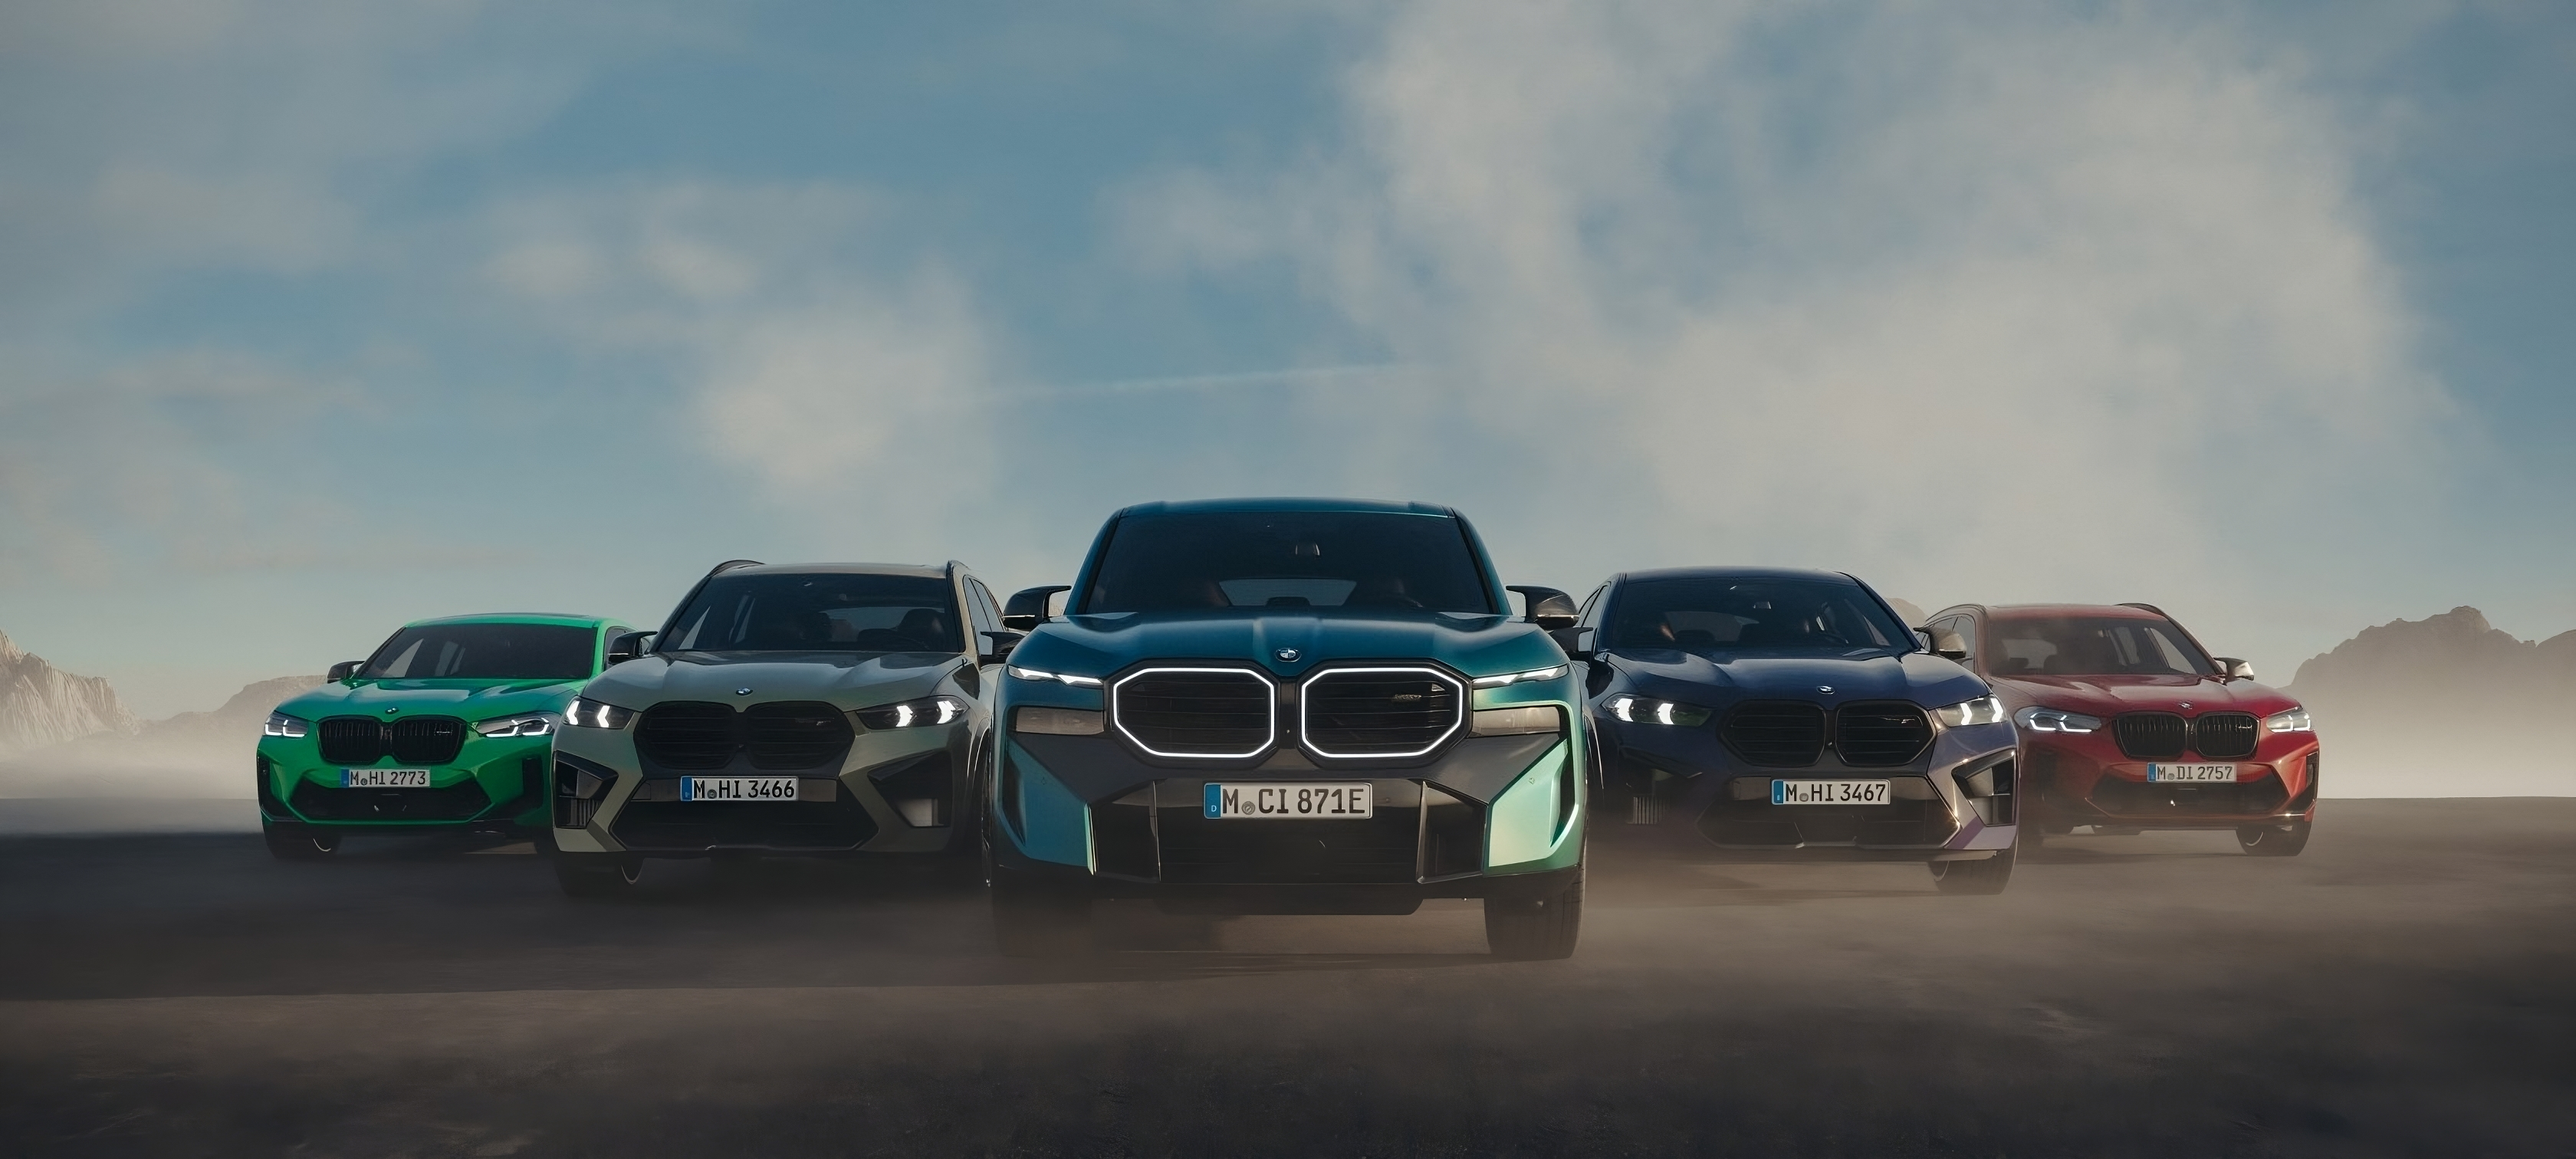
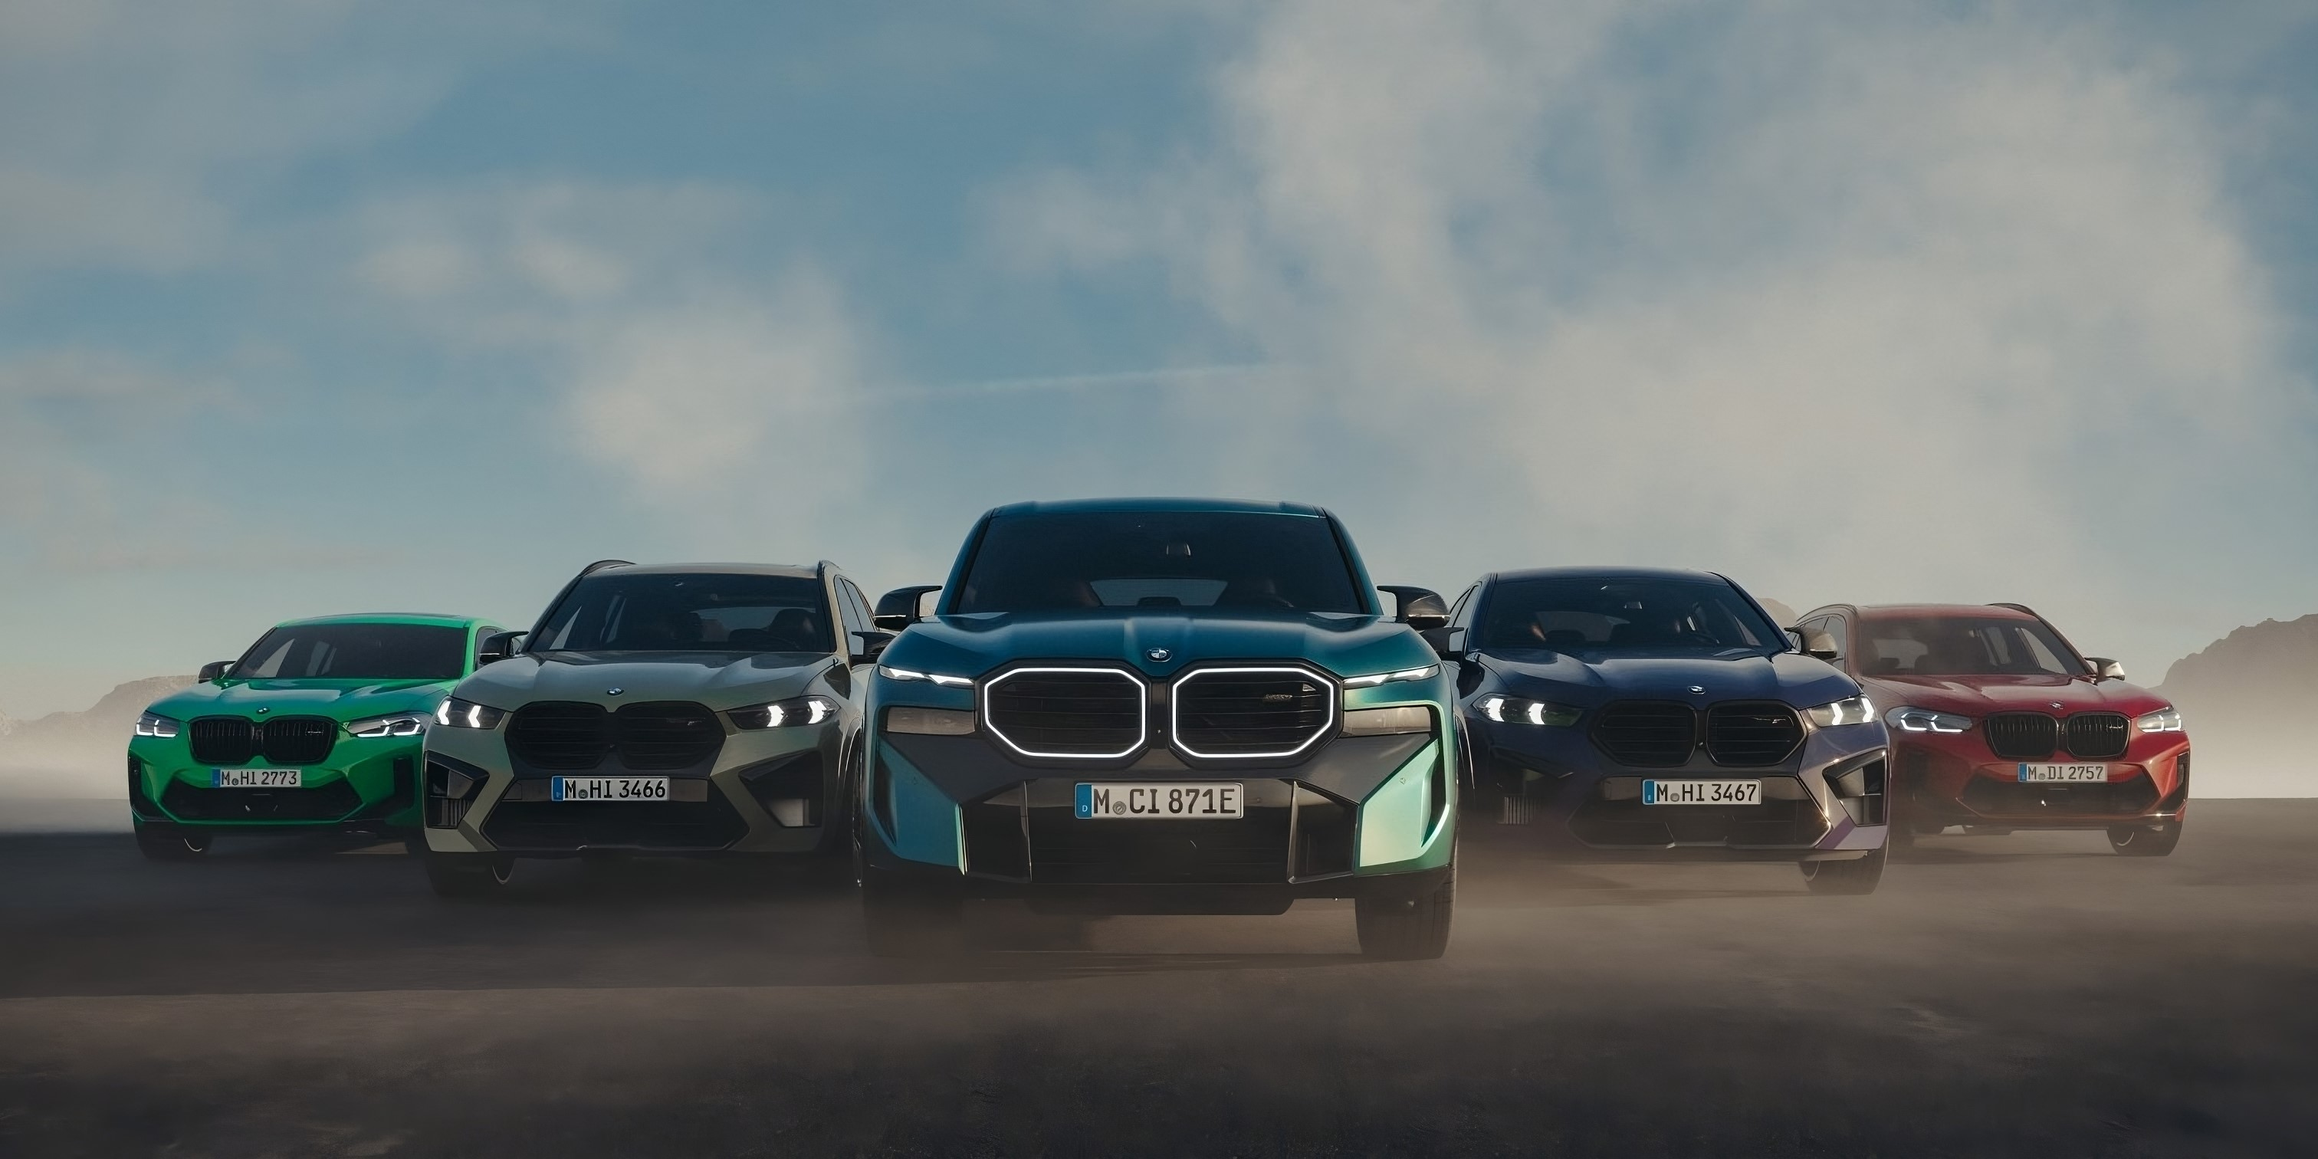
added two img

diff --git a/index.html b/index.html
@@ -1,137 +1,113 @@
 <!DOCTYPE html>
 <html lang="en">
-  <head>
-    <meta charset="UTF-8" />
-    <link rel="icon" href="images/bmw.png" type="image/x-icon" />
-    <meta name="viewport" content="width=device-width, initial-scale=1.0" />
-    <link rel="stylesheet" href="./style.css" />
-    <link rel="preconnect" href="https://fonts.googleapis.com" />
-    <link rel="preconnect" href="https://fonts.gstatic.com" crossorigin />
-    <link
-      href="https://fonts.googleapis.com/css2?family=Inter:wght@200&family=Prompt:wght@200&display=swap"
-      rel="stylesheet"
-    />
-    <link rel="preconnect" href="https://fonts.googleapis.com" />
-    <link rel="preconnect" href="https://fonts.gstatic.com" crossorigin />
-    <link
-      href="https://fonts.googleapis.com/css2?family=Inter:wght@200&family=Prompt:wght@200&family=Rubik:wght@500&display=swap"
-      rel="stylesheet"
-    />
-    <link
-      href="https://cdn.jsdelivr.net/npm/bootstrap@5.3.2/dist/css/bootstrap.min.css"
-      rel="stylesheet"
-      integrity="sha384-T3c6CoIi6uLrA9TneNEoa7RxnatzjcDSCmG1MXxSR1GAsXEV/Dwwykc2MPK8M2HN"
-      crossorigin="anonymous"
-    />
-    <title>BMW M series</title>
-  </head>
 
-  <body>
-    <!--Navbar-->
-    <nav class="navbar navbar-expand-sm navbar-dark fixed-top">
-      <div class="container">
-        <a href="#Models" class="navbar-brand"> </a>
-        <button
-          class="navbar-toggler"
-          data-bs-toggler="collapse"
-          data-bs-target="#menu"
-          aria-expanded="false"
-          aria-label="Toggle navigation"
-        >
-          <span class="navbar-toggler-icon"></span>
-        </button>
-        <div class="collapse navbar-collapse" id="menu">
-          <ul class="navbar-nav mx-auto">
-            <li class="nav-item">
-              <a href="#Models" class="nav-link text-white">Models</a>
-            </li>
-            <li class="nav-item">
-              <a href="#Magazines" class="nav-link text-white">Magazines</a>
-            </li>
-            <li class="nav-item">
-              <a href="#Motorsport" class="nav-link text-white">Motorsport</a>
-            </li>
-          </ul>
-          <a href="">
-            <img
-              src="images/bmw.png"
-              alt=""
-              width="60"
-              height="60"
-              style="margin: 1em"
-            />
-          </a>
-          <a href="">
-            <img src="images/bmw m.png" alt="" width="90" height="40" />
+<head>
+  <meta charset="UTF-8" />
+  <link rel="icon" href="images/bmw.png" type="image/x-icon" />
+  <meta name="viewport" content="width=device-width, initial-scale=1.0" />
+  <link rel="stylesheet" href="./style.css" />
+  <link rel="preconnect" href="https://fonts.googleapis.com" />
+  <link rel="preconnect" href="https://fonts.gstatic.com" crossorigin />
+  <link href="https://fonts.googleapis.com/css2?family=Inter:wght@200&family=Prompt:wght@200&display=swap"
+    rel="stylesheet" />
+  <link rel="preconnect" href="https://fonts.googleapis.com" />
+  <link rel="preconnect" href="https://fonts.gstatic.com" crossorigin />
+  <link
+    href="https://fonts.googleapis.com/css2?family=Inter:wght@200&family=Prompt:wght@200&family=Rubik:wght@500&display=swap"
+    rel="stylesheet" />
+  <link href="https://cdn.jsdelivr.net/npm/bootstrap@5.3.2/dist/css/bootstrap.min.css" rel="stylesheet"
+    integrity="sha384-T3c6CoIi6uLrA9TneNEoa7RxnatzjcDSCmG1MXxSR1GAsXEV/Dwwykc2MPK8M2HN" crossorigin="anonymous" />
+  <title>BMW M series</title>
+</head>
+
+<body>
+  <!--Navbar-->
+  <nav class="navbar navbar-expand-sm navbar-dark fixed-top">
+    <div class="container">
+      <a href="#Models" class="navbar-brand"> </a>
+      <button class="navbar-toggler" data-bs-toggler="collapse" data-bs-target="#menu" aria-expanded="false"
+        aria-label="Toggle navigation">
+        <span class="navbar-toggler-icon"></span>
+      </button>
+      <div class="collapse navbar-collapse" id="menu">
+        <ul class="navbar-nav mx-auto">
+          <li class="nav-item">
+            <a href="#Models" class="nav-link text-white">Models</a>
+          </li>
+          <li class="nav-item">
+            <a href="#Magazines" class="nav-link text-white">Magazines</a>
+          </li>
+          <li class="nav-item">
+            <a href="#Motorsport" class="nav-link text-white">Motorsport</a>
+          </li>
+        </ul>
+        <a href="">
+          <img src="images/bmw.png" alt="" width="60" height="60" style="margin: 1em" />
+        </a>
+        <a href="">
+          <img src="images/bmw m.png" alt="" width="90" height="40" />
+        </a>
+      </div>
+    </div>
+  </nav>
+  <!--Navigation End-->
+
+  <!--Hero Start-->
+  <section class="hero">
+    <div class="hero__overlay"></div>
+    <video playsinline="playsinline" autoplay="autoplay" muted="muted" loop="loop" loading="lazy" class="hero__video">
+      <source src="videos/bmw m.mp4" type="video/mp4" />
+    </video>
+
+    <div class="hero__content h-100 container-custom position-relative">
+      <div class="d-flex h-100 align-items-end" style="padding-bottom: 6rem">
+        <div class="text-white">
+          <h1 class="fw-bold mb-1" style="font-family: prompt">
+            ALL BMW M AUTOMOBILES AT A GLANCE
+          </h1>
+          <a href="#" class="mt-2 btn btn-lg btn-outline-light" style="font-family: rubik" role="button">
+            <h5 class="fw-bold mb-1" style="font-family: prompt">
+              Experience
+            </h5>
           </a>
         </div>
       </div>
-    </nav>
-    <!--Navigation End-->
+    </div>
+  
 
-    <!--Hero Start-->
-    <section class="hero">
-      <div class="hero__overlay"></div>
-      <video
-        playsinline="playsinline"
-        autoplay="autoplay"
-        muted="muted"
-        loop="loop"
-        loading="lazy"
-        class="hero__video"
-      >
-        <source src="videos/bmw m.mp4" type="video/mp4" />
-      </video>
-
-      <div class="hero__content h-100 container-custom position-relative">
-        <div class="d-flex h-100 align-items-end" style="padding-bottom: 6rem">
-          <div class="text-white">
-            <h1 class="fw-bold mb-1 " style="font-family: prompt">
-              ALL BMW M AUTOMOBILES AT A GLANCE
-            </h1>
-            <a
-              href="#"
-              class="mt-2 btn btn-lg btn-outline-light"
-              style="font-family: rubik"
-              role="button"
-              ><h5 class="fw-bold mb-1 " style="font-family: prompt">
-                Experience
-              </h5></a
-            >
-          </div>
-        </div>
-      </div>
-    </section>
-
-    <div class="align-items-end">
-    <a href="#scroll-down" class="hero__scroll-btn">
-      Explore<svg
-        xmlns="http://www.w3.org/2000/svg"
-        width="16"
-        height="16"
-        fill="currentColor"
-        class="bi bi-arrow-down"
-        viewBox="0 0 16 16" 
-      >
-        <path
-          fill-rule="evenodd"
-          d="M8 1a.5.5 0 0 1 .5.5v11.793l3.146-3.147a.5.5 0 0 1 .708.708l-4 4a.5.5 0 0 1-.708 0l-4-4a.5.5 0 0 1 .708-.708L7.5 13.293V1.5A.5.5 0 0 1 8 1"
-        />
+  <div class="align-items-end mt-3">
+    <a href="#scroll-down" class="hero__scroll-btn mt-3">
+      Explore<svg xmlns="http://www.w3.org/2000/svg" width="16" height="16" fill="currentColor" class="bi bi-arrow-down"
+        viewBox="0 0 16 16">
+        <path fill-rule="evenodd"
+          d="M8 1a.5.5 0 0 1 .5.5v11.793l3.146-3.147a.5.5 0 0 1 .708.708l-4 4a.5.5 0 0 1-.708 0l-4-4a.5.5 0 0 1 .708-.708L7.5 13.293V1.5A.5.5 0 0 1 8 1" />
       </svg>
     </a>
   </div>
-    <!--Hero End-->
 
-    <!--<div class="container">
-      <div class="col-12 col-sm-6 d-md-flex justify-content-md-center">
-        <img src="images/bmw xm group pic.jpeg" alt="" width="500" />
+</section>
+  <!--Hero End-->
+
+ 
+    <div class="container-fluid">
+      <div class="row">
+        <div class="col-xs-12 col-md-6 mw-100 p-0">
+          <img src="images/bmw xm group pic.jpeg" alt="Image 1" class="img-fluid">
+          <!-- <h3>The New BMW XM Super SUV</h3> -->
+        </div>
+        <div class="col-xs-12 col-md-6 mw-100 p-0">
+          <img src="images/bmw-m-driving-experience.png" alt="Image 2" class="img-fluid">
+          
+           <!-- <h3>Driving Experience</h3> -->
+            
+          
+        </div>
       </div>
-    </div>-->
+    </div>
+ 
+  <script src="https://cdn.jsdelivr.net/npm/bootstrap@5.3.2/dist/js/bootstrap.bundle.min.js"
+    integrity="sha384-C6RzsynM9kWDrMNeT87bh95OGNyZPhcTNXj1NW7RuBCsyN/o0jlpcV8Qyq46cDfL"
+    crossorigin="anonymous"></script>
+</body>
 
-    <script
-      src="https://cdn.jsdelivr.net/npm/bootstrap@5.3.2/dist/js/bootstrap.bundle.min.js"
-      integrity="sha384-C6RzsynM9kWDrMNeT87bh95OGNyZPhcTNXj1NW7RuBCsyN/o0jlpcV8Qyq46cDfL"
-      crossorigin="anonymous"
-    ></script>
-  </body>
 </html>

diff --git a/style.css b/style.css
@@ -65,6 +65,8 @@ body{
 
 
 
+
+
 @media (min-aspect-ratio: 16/9) {
     .back-video{
         width: 100%;
